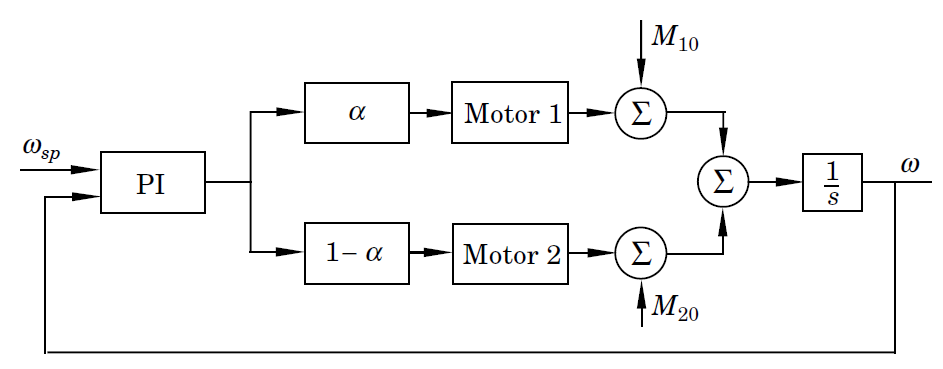
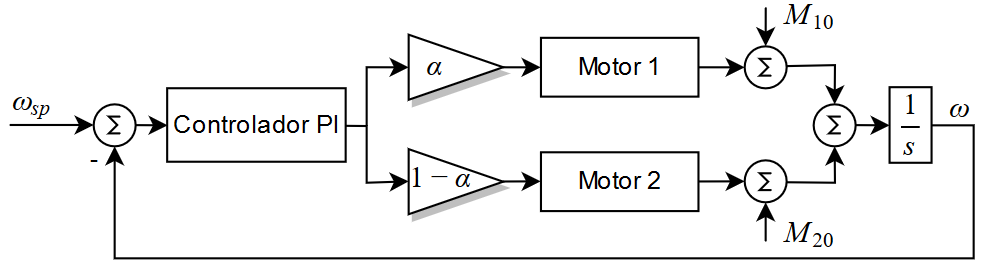
CHANGED: Conclusão do Referencial com imagens refeitas

Changed region(s): [[0.0, 0.0, 0.9841, 0.9819]]

diff --git a/textual/cap2.tex b/textual/cap2.tex
@@ -9,7 +9,7 @@ No presente capítulo, são apresentados conceitos básico para a compreensão d
 
 Desde o lançamento do satélite Sputnik I, primeiro satélite artificial, que foi desenvolvido e lançado pela extinta URSS (União das Repúblicas Socialistas Soviéticas) no dia 4 de Outubro de 1957, novas formas de controle foram desenvolvidas. Como o principal fim de um satélite é a comunicação e a navegação, que exigem orientação acurada, juntamente com todas as forças que atuam sobre o satélite, se torna imprescindível o uso de técnicas de controle para se garantir a translação e a rotação do satélite \cite{Brown2002}. Na figura \ref{fig:rotational_brown_p256}, podemos ver os movimentos de rotação e translação de um satélite ao redor de um planeta.
 
-\begin{figure}[!ht]
+\begin{figure}[H]
   \caption{Movimento de Translação de um satélite Artificial.}
   \begin{center}
       \includegraphics[scale=0.5]{img/rotational_brown_p256}
@@ -54,7 +54,7 @@ Segundo a 3ª Lei de Newton, como o corpo j exerce uma força $\vec{f_{ji}}$ em 
 
 A imagem \ref{fig:translacao_referencial_snider_p15}, representa o vetor posição $\vec{r_{com}}$ de um corpo rígido em relação a origem. A descrição matemática desse vetor pode ser visto na equação \ref{eq:rcom}.
 
-\begin{figure}[!ht]
+\begin{figure}[H]
   \caption{Representação de $\vec{r_{com}}$}
   \begin{center}
       \includegraphics[scale=0.5]{img/translacao_referencial_snider_p15}
@@ -84,7 +84,7 @@ Igualando as equações \ref{eq:fet} e \ref{eq:2deriv}, temos a força total sob
 
 A \textit{dinâmica de rotação} descreve o movimento de um corpo rígido em relação a um ponto. Para descrevermos os movimentos de rotação, devemos conhecer a distribuição de massa do corpo rígido \cite{Snider}. A figura \ref{fig:mass_snider_p16} ilustra a distribuição de massa infinitesimal de um corpo tridimensional. Por definição, o momento de inércia infinitesimal disposto sobre um eixo ($I_{xx}$, $I_{yy}$ e $I_{zz}$) é o produto da massa pela distância do ponto de referência. Se fizermos isso mara N partículas, temos:
 
-\begin{figure}[!ht]
+\begin{figure}[H]
   \caption{Distribuição de Massa}
   \begin{center}
       \includegraphics[scale=0.5]{img/mass_snider_p16}
@@ -249,7 +249,7 @@ Assim conseguimos a relação da velocidade com o torque aplicado. Essa é uma e
 
 Na seção anterior, temos como resultado 3 equações diferenciais ordinárias de primeira ordem (EDO), também chamadas de equações de Euler. Essas equações definem a dinâmica do corpo rígido em relação a um ponto fixo. Como temos o interesse de controle de posição, ainda nos falta uma relação matemática para expressar a posição angular $\beta$, velocidade angular $\omega$ e a aceleração $\alpha$, isso em um espaço tridimensional \cite{Snider}. Na imagem \ref{fig:coordenada}, podemos ver a representação dos ângulos de Euler ($\psi, \theta, \phi$) em relação aos eixos $b_1, b_2 e b_3$, oriundos de uma transformação pela sequência de Euler \cite{BongWie2001}.
 
-\begin{figure}[!ht]
+\begin{figure}[H]
   \caption{Ângulos de Euler}
   \begin{center}
       \includegraphics[scale=0.5]{img/euler_snider_p28}
@@ -277,7 +277,7 @@ Como podemos ver, existem singularidades nas matrizes de rotação, pois existe 
 
 Uma rodas de reação consiste em um rotor que é fixado em satélites ou em outros veículos, com o objetivo de mudar a posição dos mesmos através da variação de velocidade da roda, criando uma reação pela criação de um torque. Quando a roda sofre uma desaceleração, ela exerce um torque em uma direção, se acelerada, em outra \cite{BongWie2001}. Na figura \ref{fig:satellite_controlhand_p1306} podemos ver 3 rodas de reação dispostas nos 3 eixos de um corpo rígido.
 
-\begin{figure}[!ht]
+\begin{figure}[H]
   \caption{Representação Mecânica Simplificada de um satélite com rodas de Reação.}
   \begin{center}
       \includegraphics[scale=0.75]{img/satellite_controlhand_p1306}
@@ -342,7 +342,7 @@ Um problema fundamental em engenharia, é prever e modelar sistemas naturais ou 
 
 Uma forma clássica de representar um resposta de uma variável de interesse, é através da resposta ao degrau. Essa pode ser vista na figura \ref{fig:transient_ogata_p170}, onde temos as principais características da resposta ao degrau de um sistema de segunda ordem ou superior. Onde \textit{$M_p$} (maximum overshoot) é o sobressinal do da variável de interesse em percentual, \textit{$t_d$} (delay Time) é o tempo atraso de transporte, \textit{$t_r$} (rise time) é o tempo necessário para atingir o valor do sinal de referência, \textit{$t_p$} é o tempo de pico (peak time) e \textit{$t_s$} (settling time) é o tempo para o sistema entrar em regime, observando um critério de erro em regime \cite{Ogata}.
 
-\begin{figure}[!ht]
+\begin{figure}[H]
   \caption{Parâmetros de uma Resposta ao Degrau de um sistema de segunda ordem ou superior.}
   \begin{center}
       \includegraphics[scale=0.5]{img/transient_ogata_p170}
@@ -376,7 +376,7 @@ Onde \textit{e(t)} é o erro, \textit{$T_i$} é o tempo integral, \textit{$T_d$}
 
 Na figura \ref{fig:pid_controller_Snider_p35}, podemos ver a configuração mais utilizada do controlador PID, onde $\beta_{com}(S)$ é o valor do sinal de referência no domínio da frequência, \textit{err(S)} o erro, \textit{$K_p$} é o ganho proporcional, \textit{$K_i$} é o ganho integral, \textit{$K_d$} é o ganho derivativo, \textit{$G_e(s)$} é a função de transferência do controlador PID, \textit{$M_{c1}(s)$} é o sinal de erro tratado pelo controlador, \textit{D(S)} é um distúrbio, \textit{$G_p(S)$} é a função de transferência da planta e por fim, \textit{$\beta(S)$} que é a variável de interesse \cite{Snider}.
 
-\begin{figure}[!ht]
+\begin{figure}[H]
   \caption{Representação do Modelo de Controlador PID com distúrbios.}
   \begin{center}
       \includegraphics[scale=0.55]{img/pid_controller_Snider_p35}
@@ -387,7 +387,7 @@ Na figura \ref{fig:pid_controller_Snider_p35}, podemos ver a configuração mais
 
 Como alguns sistemas podem admitir grandes e rápidas variações de sinais de referência, exigindo uma grande força de controle e energia no atuador, algumas topologias foram desenvolvidas para limitar a atuação de alguns fatores dos controladores. Um bom exemplo é o \textit{anti-windup}, onde essa topologia limita a saturação do atuador quando o sistema atinge o regime, causado pela ação integral. Essa topologia pode ser vista no modelo da figura \ref{fig:pid_antiwindup_astrom_p83} \cite{Astrom1995}.
 
-\begin{figure}[!ht]
+\begin{figure}[H]
   \caption{Modelo de um Controlador PID com Histerese}
   \begin{center}
       \includegraphics[scale=0.55]{img/pid_antiwindup_astrom_p83}
@@ -398,10 +398,10 @@ Como alguns sistemas podem admitir grandes e rápidas variações de sinais de r
 
 Existem muitas combinações de controladores PID, cada uma com suas peculiaridades e vantagens de uso. Uma combinação muito usada é a PI, onde a acão integral de zerar o erro em regime e uma boa resposta transitória já satisfazem as especificações. Podemos ver um exemplo dessa configuração na imagem \ref{fig:pi_twomotors_astrom_p308}, onde apenas um controlador PI controla a velocidade angular (\textit{$\omega$})somada de dois motores (Motor 1 e Motor 2) a partir de uma velocidade de referência (\textit{$\omega_{sp}$}) \cite{Astrom1995}.
 
-\begin{figure}[!ht]
+\begin{figure}[H]
   \caption{Representação do Modelo de Controlador PI com dois motores.}
   \begin{center}
-      \includegraphics[scale=0.65]{img/pi_twomotors_astrom_p308}
+      \includegraphics[scale=0.55]{img/pi_twomotors_astrom_p308}
   \end{center}
   \fonte{Adaptado de \citeonline{Astrom1995}.} 
   \label{fig:pi_twomotors_astrom_p308}
@@ -434,7 +434,7 @@ Onde u(k) denota o sinal computado e y(k) os valores o sinal analógico nos inst
 A transformada z é usada para aquisição e processamento de dados em sistemas discretos. Ela possui relação matemática com o domínio s da seguinte forma:
 
 \begin{equation}
-Z = e^{Ts}
+Z = e^{-Ts}
 \end{equation}
 
 Por definição, a transformada z é um somatório do produto de $z^{-k}$ com o valor do sinal analógico amostrado no momento k, y(k). Isso pode ser conferido na equação as seguir.
@@ -454,7 +454,7 @@ Por definição, a transformada z é um somatório do produto de $z^{-k}$ com o 
 
 Em um sistema discreto, uma forma de amostrar um sinal analógico é usar um trem de impulsos com amplitude do sinal y(t) nos tempos T e reter esses dados com um ZOH (Zero-Order-Hold - Retentor de Ordem Zero). A figura \ref{fig:zoh_wie_p155} representa muito bem esse processo.
 
-\begin{figure}[!ht]
+\begin{figure}[H]
   \caption{Conversão de um sinal contínuo em discreto}
   \begin{center}
       \includegraphics[scale=0.65]{img/zoh_wie_p155}
@@ -513,7 +513,7 @@ Como podemos ver no modelo matemático e gráfico dos controladores PID, os valo
 
 Dois métodos clássicos de sintonia foram desenvolvidos em 1942 por Ziegler e Nichols. Esses dois métodos são baseados em características da resposta ao degrau e o com a resposta em frequência. Na figura \ref{fig:ziegler-nichols_astrom_p135} podemos ver a resposta ao degrau e os parâmetros de atraso (L) e velocidade da resposta (a), que são usados para o cálculos dos parâmetros do controlador  \cite{Astrom1995}. 
 
-\begin{figure}[!ht]
+\begin{figure}[H]
   \caption{Resposta ao degrau e os parâmetros de atraso (L) e velocidade da resposta (a).}
   \begin{center}
       \includegraphics[scale=0.75]{img/ziegler-nichols_astrom_p135}
@@ -585,10 +585,10 @@ Uma alternativa possível para sintonia de controladores é o método do relé, 
 
 Características da resposta em frequência podem ser descobertas se somarmos ao sinal de referência, uma onda retangular ao mesmo tempo em que o controlador PID está desconectado. Esse é o princípio do método de sintonia usando relé, onde o relé desempenha o papel do chaveamento e cria um sinal retangular sobreposto ao sinal de referência \cite{Levine1996}. Na imagem \ref{fig:pid_autotuning_relay_astrom_p239} podemos ver o conceito básico do método do relé. O modelo matemático usado para descrever o comportamento de um relé, pode ser visto na equação \ref{eq:n(a)} que está na sequência:
  
-\begin{figure}[!ht]
+\begin{figure}[H]
   \caption{Modelo do Método de Auto Sintonia via Relé.}
   \begin{center}
-      \includegraphics[scale=0.45]{img/pid_autotuning_relay_astrom_p239}
+      \includegraphics[scale=0.55]{img/pid_autotuning_relay_astrom_p239}
   \end{center}
   \fonte{Adaptado de \citeonline{Astrom1995}.} 
   \label{fig:pid_autotuning_relay_astrom_p239}
@@ -630,7 +630,7 @@ Na figura \ref{fig:componentes_linux_p13}, podemos ver a arquitetura de hardware
 
 Quando nos referimos aos diferentes contextos de software em Linux, estamos falando do espaço de usuário e o espaço do Kernel. No espaço de usuário rodam as aplicações, já no espaço do Kernel, rodam as Threds e os acessos ao hardware. Os acessos entre regiões de memórias de um contexto pelo outro, são feitos através de chamadas de sistema do Kernel (\cite{Tobergte2013}). Essa estrutura pode ser vista na imagem \ref{fig:kernel_user_space}.
 
-\begin{figure}[!ht]
+\begin{figure}[H]
   \caption{Estrutura Básica do Espaço de Usuário e de Kernel.}
   \begin{center}
       \includegraphics[scale=0.55]{img/kernel_user_space}
@@ -641,7 +641,7 @@ Quando nos referimos aos diferentes contextos de software em Linux, estamos fala
 
 Como podem existir diversas aplicações e processos sendo executados ao mesmo tempo, mas só existe uma unidade de processamento, por exemplo, o Linux tem implementado um escalonador de tarefas que define quem será executado. Existem diferentes níveis de prioridade para executar uma tarefa, onde uma de alta prioridade pode entrar entrar em execução fazendo com que a que estava sendo executada fique em espera. Isso pode ser visto com mais clareza na figura \ref{fig:escalonador_hallinan_p469} \cite{Tobergte2013}.
 
-\begin{figure}[!ht]
+\begin{figure}[H]
   \caption{Linha do Tempo de execução de duas tarefas.}
   \begin{center}
       \includegraphics[scale=0.45]{img/escalonador_hallinan_p469}
@@ -665,10 +665,10 @@ O estado da arte dentro de controle, nasce com a criação de controladores inte
 
 Um algoritmo genético (AG) é baseado nos princípios naturais de otimização, seleção natural e genética populacional. Esses princípios foram codificados em diferentes linguagens de programação, com o fim de otimizar variáveis de sistemas físicos e até de ciências sociais. Um AG busca o cromossomo ideal que gere um população com o potencial espaço de soluções \cite{Unal2013}. No caso do controlador PID, os valores de $K_i$, $T_i$ e $T_d$, ou ainda, um conjunto desses valores. Na imagem \ref{fig:pid_genetic_unal_p45} podemos ver uma proposta de controlador PID onde é usado AG. 
 
-\begin{figure}[!ht]
-  \caption{Topologia de Controlador Usando Algoritmo Genético}''
+\begin{figure}[H]
+  \caption{Topologia de Controlador Usando Algoritmo Genético}
   \begin{center}
-      \includegraphics[scale=0.55]{img/pid_genetic_unal_p45}
+      \includegraphics[scale=0.65]{img/pid_genetic_unal_p45}
   \end{center}
   \fonte{Adaptado de \citeonline{Unal2013}.} 
   \label{fig:pid_genetic_unal_p45}
@@ -702,21 +702,21 @@ também
 
 Onde $\lambda_n$ é o ganho do neurônio. Uma representação gráfica de um neurônio natural comparado com um artificial pode ser visto na figura \ref{fig:neuronio_unal_p6}, onde os dendritos são representados pelas entradas $p_1, p_2, ..., p_R$, uma soma dessas entradas que posteriormente é aplicada a função da equação \ref{eq:neuron}, onde obtemos a saída $a$.
 
-\begin{figure}[!ht]
+\begin{figure}[H]
   \caption{Célula de um Neurônio Natural e Modelo Matemático Respectivo}
   \begin{center}
       \includegraphics[scale=0.45]{img/neuronio_unal_p6}
   \end{center}
-  \fonte{Adaptado de (unal).} 
+  \fonte{Adaptado de  \citeonline{Unal2013}.} 
   \label{fig:neuronio_unal_p6}
 \end{figure}
 
 Ao paralelizarmos um grupo de neurônios, criamos uma camada de neurônios, cada elemento dessa camada é conectado em todas as entradas, ou em todos os neurônios da camada anterior, ou posterior ou ainda, nas saídas. Uma representação de uma rede neural pode ser vista na figura \ref{fig:feedforward_neural_astrom_p297}, onde temos 5 entradas ($u_1,...,u_5$) e duas saídas ($y_1 y_2$).
 
-\begin{figure}[!ht]
+\begin{figure}[H]
   \caption{Representação de uma Rede Neural.}
   \begin{center}
-      \includegraphics[scale=0.65]{img/feedforward_neural_astrom_p297}
+      \includegraphics[scale=0.7]{img/feedforward_neural_astrom_p297}
   \end{center}
   \fonte{Adaptado de \citeonline{Astrom1995}.} 
   \label{fig:feedforward_neural_astrom_p297}
